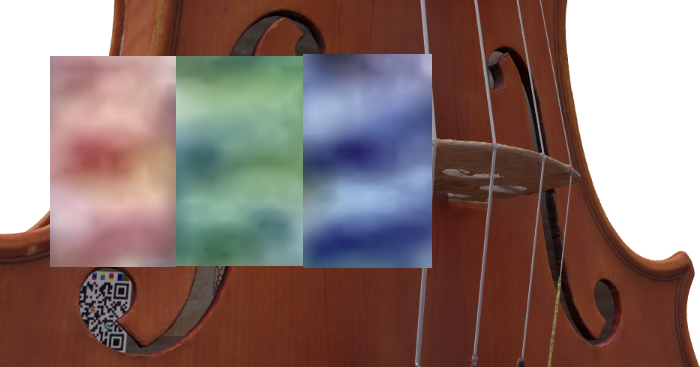
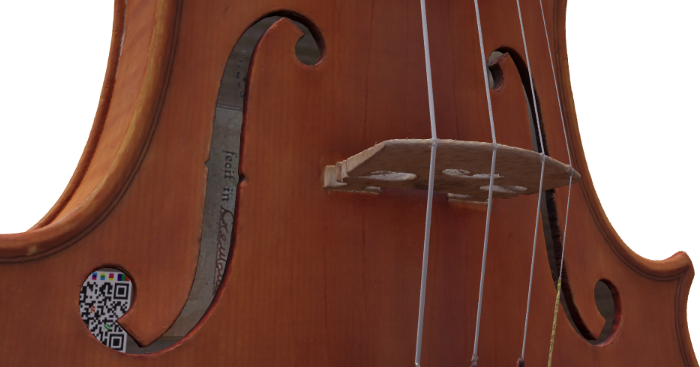
Updates

diff --git a/blog/deepfake-for-good/index.html b/blog/deepfake-for-good/index.html
@@ -16,26 +16,7 @@
         <figcaption><em>Figure 2: Deepfake reprints derived from the same original tag taken with a higher resolution camera.</em></figcaption>
     </figure>
 </center>
-<h2>Violin Authentication Evolution</h2>
 <p>Blocktag uses deepfakes to improve authentication accuracy. As we collect more training data from user authentications to train our deep learning model, there are more deepfake datapoints to tighten the minimum similarity threshold to pass authentication. You can visualize this in the 3D graph below. The x/y/z axis represents the target tag’s red/green/blue colored pattern similarity with it’s original fingerprint. The boxed space bounded by the 3 colored planes represent successful authentication. Each colored datapoint represents a tag instance. </p>
-<center>
-    <figure>
-        <img width="373" src="/img/blog/tag.jpeg" alt="Tag Surroundings">
-        <figcaption><em>Basic authentiction with tag's chaotic fingerprint signature in orange box. <br> Advanced authentication with tag's surrounding features fingerprint in purple box</em></figcaption>
-    </figure>
-</center>
-<center>
-    <figure>
-        <img width="560" height="315" src="/img/blog/ViolinOutside.png" alt="Violin Outside">
-        <figcaption><em>Expert authentication with 3D digital twin fingerprint from the oustide</em></figcaption>
-    </figure>
-</center>
-<center>
-    <figure>
-        <img width="560" height="315" src="/img/blog/ViolinInside.png" alt="Violin Inside">
-        <figcaption><em>Expert authentication with 3D digital twin fingerprint scan from the inside</em></figcaption>
-    </figure>
-</center>
 <p>In summary, Deepfake empowers a brand’s users as anti-counterfeiting's first line of defense. Before counterfeiters try to fake it till they make it.</p>
 <p>ChunMing Chin<br>
 Cofounder, Director of Engineering<br>
